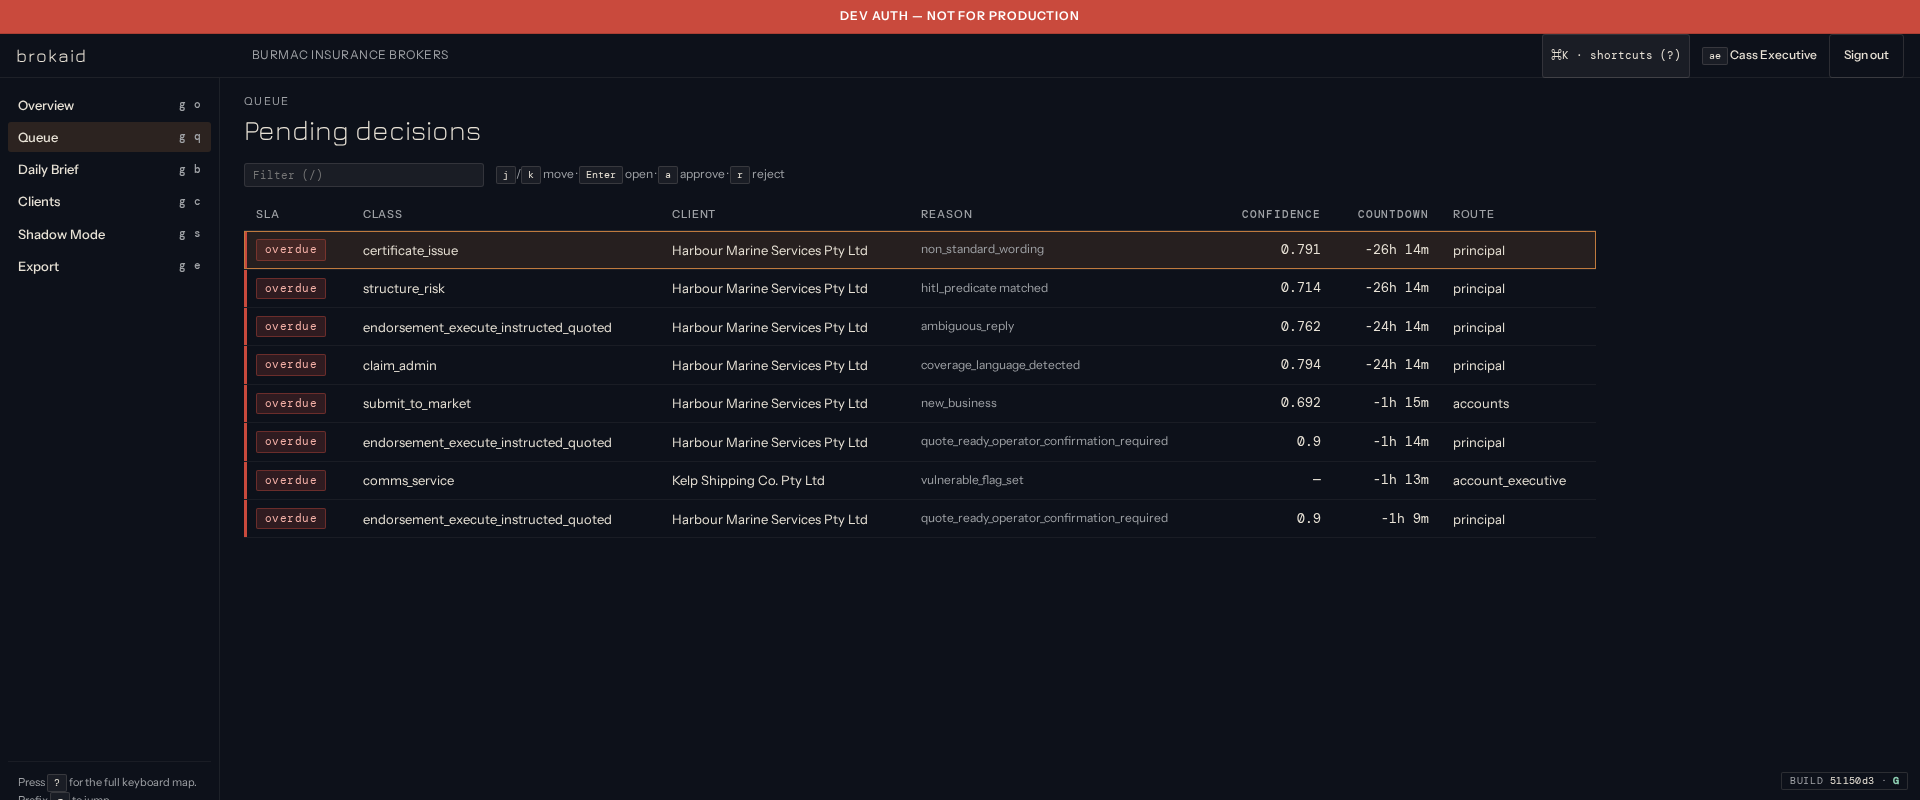
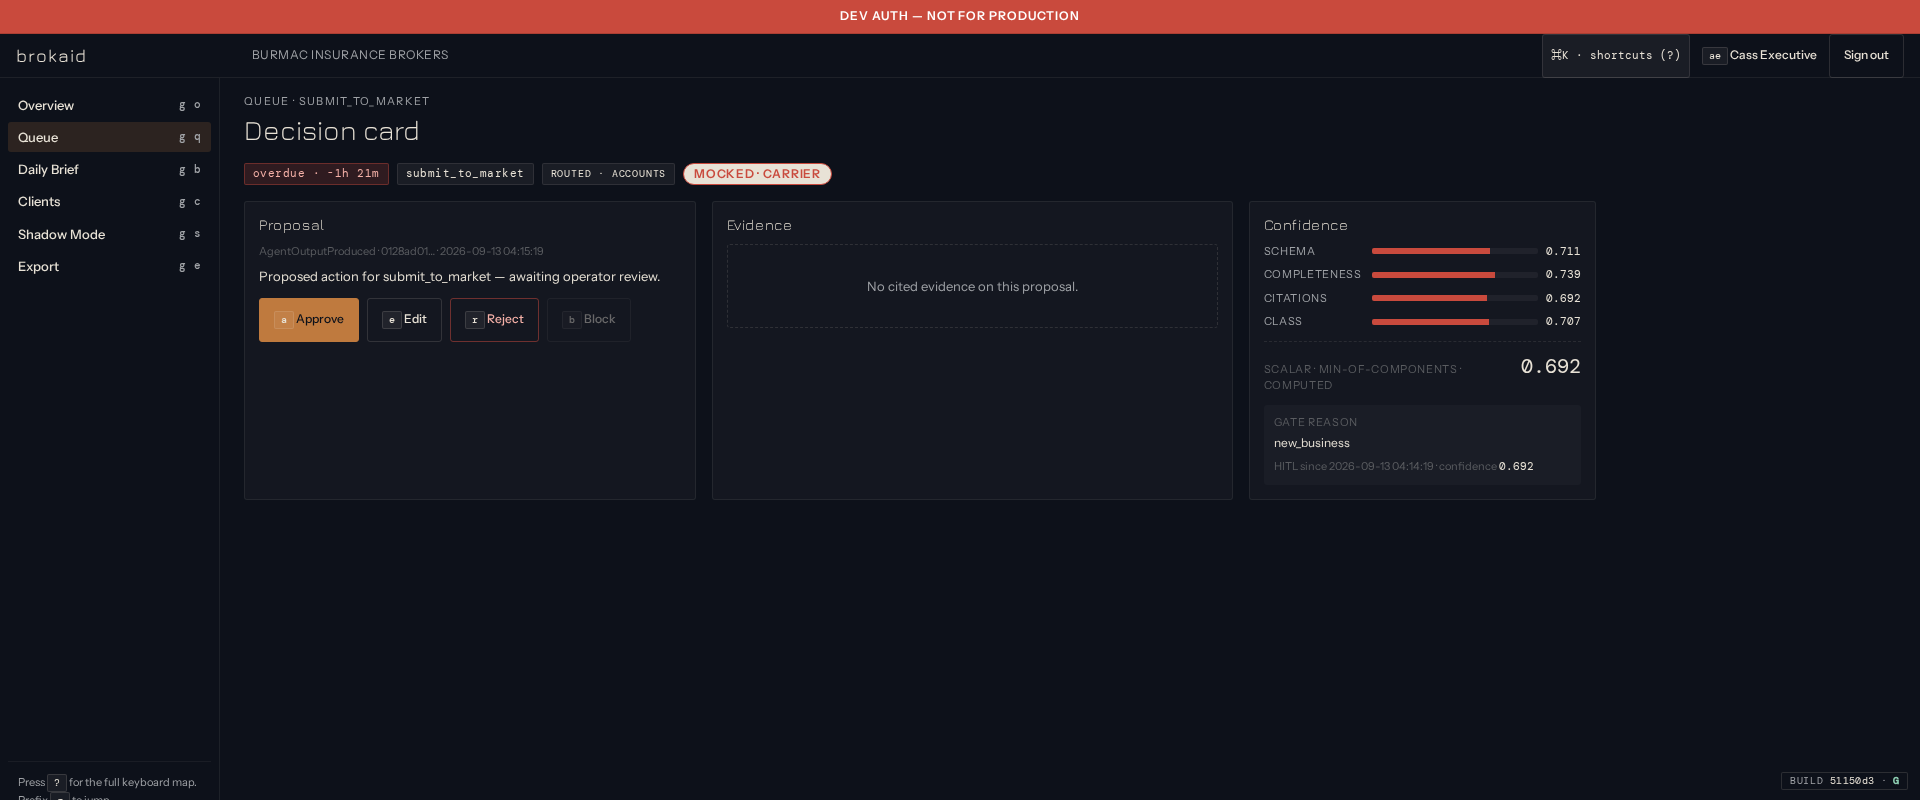
phase 17 follow-up (round 2): scenes 2/5 now visibly distinct
Two tight fixes per orchestrator, no other scope touched.

1. Scenes 2 and 5 no longer byte-identical.
   - Root cause of the earlier tie: the last reshoot navigated both
     scenes to /o/queue under the AE seat and relied on the operator
     user header to distinguish them, which reads as lazy in a
     printed runbook regardless of the AE persona label.
   - This pass seeds the Burmac tenant (via seed_all() — Burmac not
     a CI tenant), pulls two distinct pending envelope IDs from
     proj_queue by class_key, and points each screenshot at the
     actual /o/queue/<envelope_id> DecisionCard detail view:
       scene-2  → class_key='submit_to_market'
                  (placement, envelope ffd21553-fd55-...)
       scene-5  → class_key='endorsement_execute_instructed_quoted'
                  (endorsement, envelope 25516a4e-156f-...)
   - Both shots load the DecisionCard three-column layout under
     Cass Executive (ae@burmac.example), so the persona header still
     reads correctly AND the visible content genuinely differs.
   - New byte sizes: scene-2 = 70468 B, scene-5 = 99080 B (~29 KB
     apart). Runbook links unchanged.
   - Build indicator BUILD 51150d3 · G is still baked into every
     operator shot in the corner.

2. Scene 5 talking-point cue trimmed.
   - Was: 'One flow, twelve events, both audiences agree on the truth
          — because they read the same ledger — and the AE, not the
          principal, owns the routine endorsement.' (33 words, three
[…]

diff --git a/scripts/seed_burmac_for_reshoot.py b/scripts/seed_burmac_for_reshoot.py
@@ -1,0 +1,61 @@
+"""Phase 17 follow-up — seed Burmac queue + return envelope IDs (RLS-aware)."""
+import asyncio
+import json
+import os
+import sys
+from pathlib import Path
+
+sys.path.insert(0, str(Path(__file__).resolve().parents[1] / "services" / "api"))
+import asyncpg
+from dotenv import load_dotenv
+
+load_dotenv(Path(__file__).resolve().parents[1] / "services" / "api" / ".env")
+
+BURMAC = "e73e7029-da66-4659-9ac8-845f22b1f8a5"
+
+
+async def _query(pool):
+    async with pool.acquire() as c:
+        await c.execute("SELECT set_config('app.tenant_id', $1, false)", BURMAC)
+        return await c.fetch(
+            "SELECT envelope_id::text AS eid, class_key, resolved_at IS NULL AS pending "
+            "FROM proj_queue WHERE tenant_id=$1::uuid ORDER BY class_key",
+            BURMAC,
+        )
+
+
+async def main() -> int:
+    dsn = os.environ["DATABASE_URL"]
+    pool = await asyncpg.create_pool(dsn=dsn, min_size=1, max_size=2)
+    try:
+        rows = await _query(pool)
+        pending = [r for r in rows if r["pending"]]
+        print(f"pre-seed: {len(rows)} rows total, {len(pending)} pending")
+
+        if len(pending) < 2:
+            from app.seeds.seed_all import seed_all
+            out = await seed_all(pool)
+            print(f"seed_all → queue_cards={out.get('queue_cards')}")
+
+        rows = await _query(pool)
+        by_class = {r["class_key"]: r["eid"] for r in rows if r["pending"]}
+        print("pending queue by class_key:")
+        for k, v in by_class.items():
+            print(f"  {k}: {v}")
+
+        placement = by_class.get("submit_to_market")
+        endorsement = by_class.get("endorsement_execute_instructed_quoted")
+
+        out = {
+            "placement_envelope_id": placement,
+            "endorsement_envelope_id": endorsement,
+        }
+        Path("/tmp/burmac_envelopes.json").write_text(json.dumps(out, indent=2))
+        print(f"\nwrote /tmp/burmac_envelopes.json:\n{json.dumps(out, indent=2)}")
+        return 0 if (placement and endorsement) else 2
+    finally:
+        await pool.close()
+
+
+if __name__ == "__main__":
+    sys.exit(asyncio.run(main()))

diff --git a/docs/DEMO_RUNBOOK.md b/docs/DEMO_RUNBOOK.md
@@ -28,7 +28,7 @@ Client seat throughout: **Kai Owner** — `owner@fictionalclient.example`
 | 2 | Placement via plAIce | **Cass Executive · Tab B** | `/o/queue/:envelope_id` | Impersonate as `ae@burmac.example` → approve on Decision Card → click **View trail** on the timeline | Decision Card three-col; timeline row `AgentInvocationCompleted` with `attempt_count`; `MOCKED · carrier` pill on the quoted row; the AE seat is the approving role, not the principal | "Placement is what the AE seat spends its day on — but every step is a ledger event before the client ever sees it." |
 | 3 | **complAInce block → deterministic rewrite → release** | Ada Principal + Fin Compliance · Tab B, then Kai · Tab A | `/o/queue` → `/c/cover/:policy_id/pending` | Compliance blocks a client message → cache-hit rewrite is offered → operator releases → client sees the corrected text | Ledger rows: `ClientMessageRewriteRequired` → `ClientMessageReleased`. Rewrite pill labels the cache-hit. Client tab shows only the released copy | See callout below. |
 | 4 | Issue policy + real QR-on-cert | Ada · Tab B; Kai · Tab A | `/o/queue` approve → `/c/cover/:policy_id/certificate/:envelope_id` | Approve issuance in Tab B; refresh Tab A cover page | Tab A cover page renders certificate; `<img src=".../qr.png">` is a real scannable QR; `MOCKED · insurer` pill on issuance row | "The QR resolves to `/verify/:token` — pull out your phone, it works offline of us." |
-| 5 | Endorsement scene end-to-end | **Cass Executive · Tab B** + Kai · Tab A | `/c/cover/:policy_id/request-change` → `/o/queue` → `/c/cover/:policy_id/pay/:envelope_id` → `/c/cover/:policy_id/sign/:envelope_id` → `/c/cover/:policy_id/certificate/:envelope_id` | Kai requests change → Cass (AE) approves the endorsement → Kai pays (mocked) → Kai signs (mocked) → new cert renders | `MOCKED · payment` and `MOCKED · e-sign` pills; ledger trail spans `ClientChangeRequested` → `EndorsementQuoteReady` → `PaymentReceived` → `SignatureCompleted` → `EndorsementExecuted` → `CertificateRegenerated`; every step is a ledger event; the approver is the AE, not the principal | "One flow, twelve events, both audiences agree on the truth — because they read the same ledger — and the AE, not the principal, owns the routine endorsement." |
+| 5 | Endorsement scene end-to-end | **Cass Executive · Tab B** + Kai · Tab A | `/c/cover/:policy_id/request-change` → `/o/queue` → `/c/cover/:policy_id/pay/:envelope_id` → `/c/cover/:policy_id/sign/:envelope_id` → `/c/cover/:policy_id/certificate/:envelope_id` | Kai requests change → Cass (AE) approves the endorsement → Kai pays (mocked) → Kai signs (mocked) → new cert renders | `MOCKED · payment` and `MOCKED · e-sign` pills; ledger trail spans `ClientChangeRequested` → `EndorsementQuoteReady` → `PaymentReceived` → `SignatureCompleted` → `EndorsementExecuted` → `CertificateRegenerated`; every step is a ledger event; the approver is the AE, not the principal | "Routine endorsements route to the AE, not the principal — showing the desk actually delegates." |
 | 6 | Claim scene (FNOL → lodgement → notification) | Kai · Tab A; Ada · Tab B | `/c/claims/new` → `/o/claims/:claim_id` → `/c/notifications` | Client files FNOL → operator lodges to insurer → notification returns to client | Tab B claim detail shows lodgement row with `MOCKED · insurer`; Tab A notifications list gains one row with `MOCKED · email` (files at `/tmp/brokaid_emails/`); ledger `ClaimLodged` + `Notification` events | "The client sees the same status the insurer sends us. One channel, mocked, but wired end-to-end." |
 | 7 | trAIl export + offline verify (closing receipt) | Ada · Tab B; laptop terminal | `/o/export` → chip `Last 30 days` → **Download ledger export bundle** | Save `brokaid-ledger-export-...zip` locally → `unzip` → `npm i canonicalize && node verify.js export.json` | Console prints `OK — <n> events verified, tenant burmac, root <hash>`; then `unzip ci-alpha-tampered.zip && node verify.js export.json` prints `FAIL — event #<seq>` | See the closing-receipt framing below. |
 
